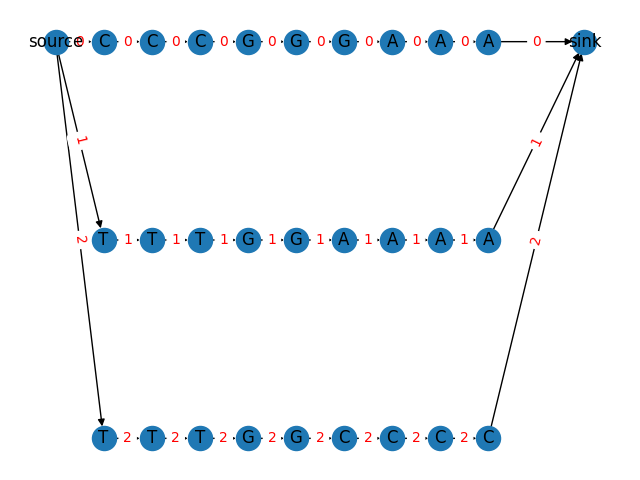
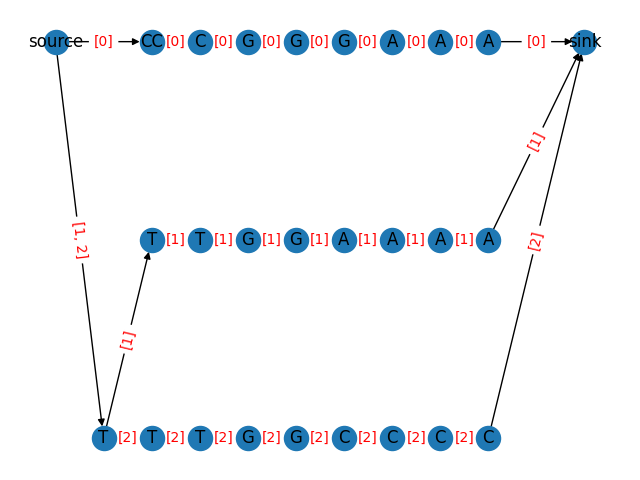
merge block function

diff --git a/Pangenome_graph.py b/Pangenome_graph.py
@@ -8,9 +8,13 @@ import matplotlib.pyplot as plt
 #----------------------------------------------------------------------------------------
 # Block class
 class block:
-    def __init__(self, base, sequence_id, begin_column, end_column):
+    def __init__(self, id, base, sequence_id, begin_column, end_column):
+        self.id = id
         self.base = base
-        self.sequences_ids = [sequence_id] 
+        if isinstance(sequence_id, list):
+            self.sequences_ids = sequence_id
+        else:
+            self.sequences_ids = [sequence_id]
         self.begin_column = begin_column
         self.end_column = end_column
 #----------------------------------------------------------------------------------------
@@ -40,10 +44,11 @@ def build_blocks_from_sequence_matrix(sequence_matrix):
     for sequence_index in range(num_seq):
         for base_index in range(num_bases):
             block_matrix[sequence_index][base_index] = block(
-            sequence_matrix[sequence_index][base_index],
-            sequence_index,
-            base_index,
-            base_index 
+                "B"+str(sequence_index)+str(base_index),
+                sequence_matrix[sequence_index][base_index],
+                sequence_index,
+                base_index,
+                base_index 
             )
     return block_matrix
 
@@ -58,8 +63,7 @@ def build_graph(matrix):
     G.add_node("sink", label = "sink")
     for i in range(rows):
         for j in range(cols):
-            ij_string = str(i) + str(j)
-            G.add_node(ij_string, label=matrix[i][j].base, row=i, col=j)
+            G.add_node(matrix[i][j].id, label=matrix[i][j].base, row=i, col=j)
 
     # Calculate positions for nodes based on "row" and "col" attributes
     pos = {}
@@ -74,14 +78,15 @@ def build_graph(matrix):
 
     # Add edges
     for i in range(rows):
-        G.add_edge("source", str(i)+str(0), label = str(i))
-        G.add_edge(str(i)+str(cols-1), "sink", label = str(i))
+        G.add_edge("source", matrix[i][0].id, label = matrix[i][0].sequences_ids)
+        G.add_edge(matrix[i][cols-1].id, "sink", label = matrix[i][cols-1].sequences_ids)
         for j in range(cols):
-            ij_string = str(i) + str(j)
-            ij1_string = str(i) + str(j+1)
             # Connect horizontally adjacent nodes
-            if j < cols - 1:
-                G.add_edge(ij_string, ij1_string, label = str(i))
+            if j < cols - 1 and matrix[i][j].id != matrix[i][j+1].id:
+                G.add_edge(matrix[i][j].id,
+                            matrix[i][j+1].id,
+                             label = list(set(matrix[i][j].sequences_ids).intersection(set(matrix[i][j+1].sequences_ids))) 
+                        )
     
     return G, pos
 
@@ -95,6 +100,28 @@ def graph_to_gfa(graph, filename):
         for u, v, data in graph.edges(data=True):
             f.write(f"L\t{u}\t+\t{v}\t+\t*\n")  # L-line for each edge
 
+#Merge two block in one
+def merge_two_blocks(block_1, block_2, how):
+    if how == "column_union":
+        new_bases = block_1.base + block_2.base 
+        new_block = block(
+            block_1.id,
+            new_bases,
+            block_1.sequences_ids,
+            block_1.begin_column,
+            block_2.end_column
+        )
+    if how == "row_union":
+        new_sequences_ids = block_1.sequences_ids + block_2.sequences_ids
+        new_block = block(
+            block_1.id,
+            block_1.base,
+            new_sequences_ids,
+            block_1.begin_column,
+            block_1.end_column
+        )
+    return new_block
+
 #----------------------------------------------------------------------------------------
 # Main
 # Read msa from file
@@ -103,8 +130,19 @@ sequences = read_fasta(filename)
 
 # Convert sequences to matrix
 sequence_matrix = sequences_to_matrix(sequences) 
+
 # Convert each base in a block
 block_matrix = build_blocks_from_sequence_matrix(sequence_matrix)
+
+#Test merge columns
+new_block_test_columns = merge_two_blocks(block_matrix[0][0], block_matrix[0][1], "column_union")
+block_matrix[0][0] = new_block_test_columns
+block_matrix[0][1] = new_block_test_columns
+
+#Test merge rows
+new_block_test_rows = merge_two_blocks(block_matrix[1][0], block_matrix[2][0], "row_union")
+block_matrix[1][0] = new_block_test_rows
+block_matrix[2][0] = new_block_test_rows
 
 # Create the pangenome graph using the blocks
 # Each node is a block
